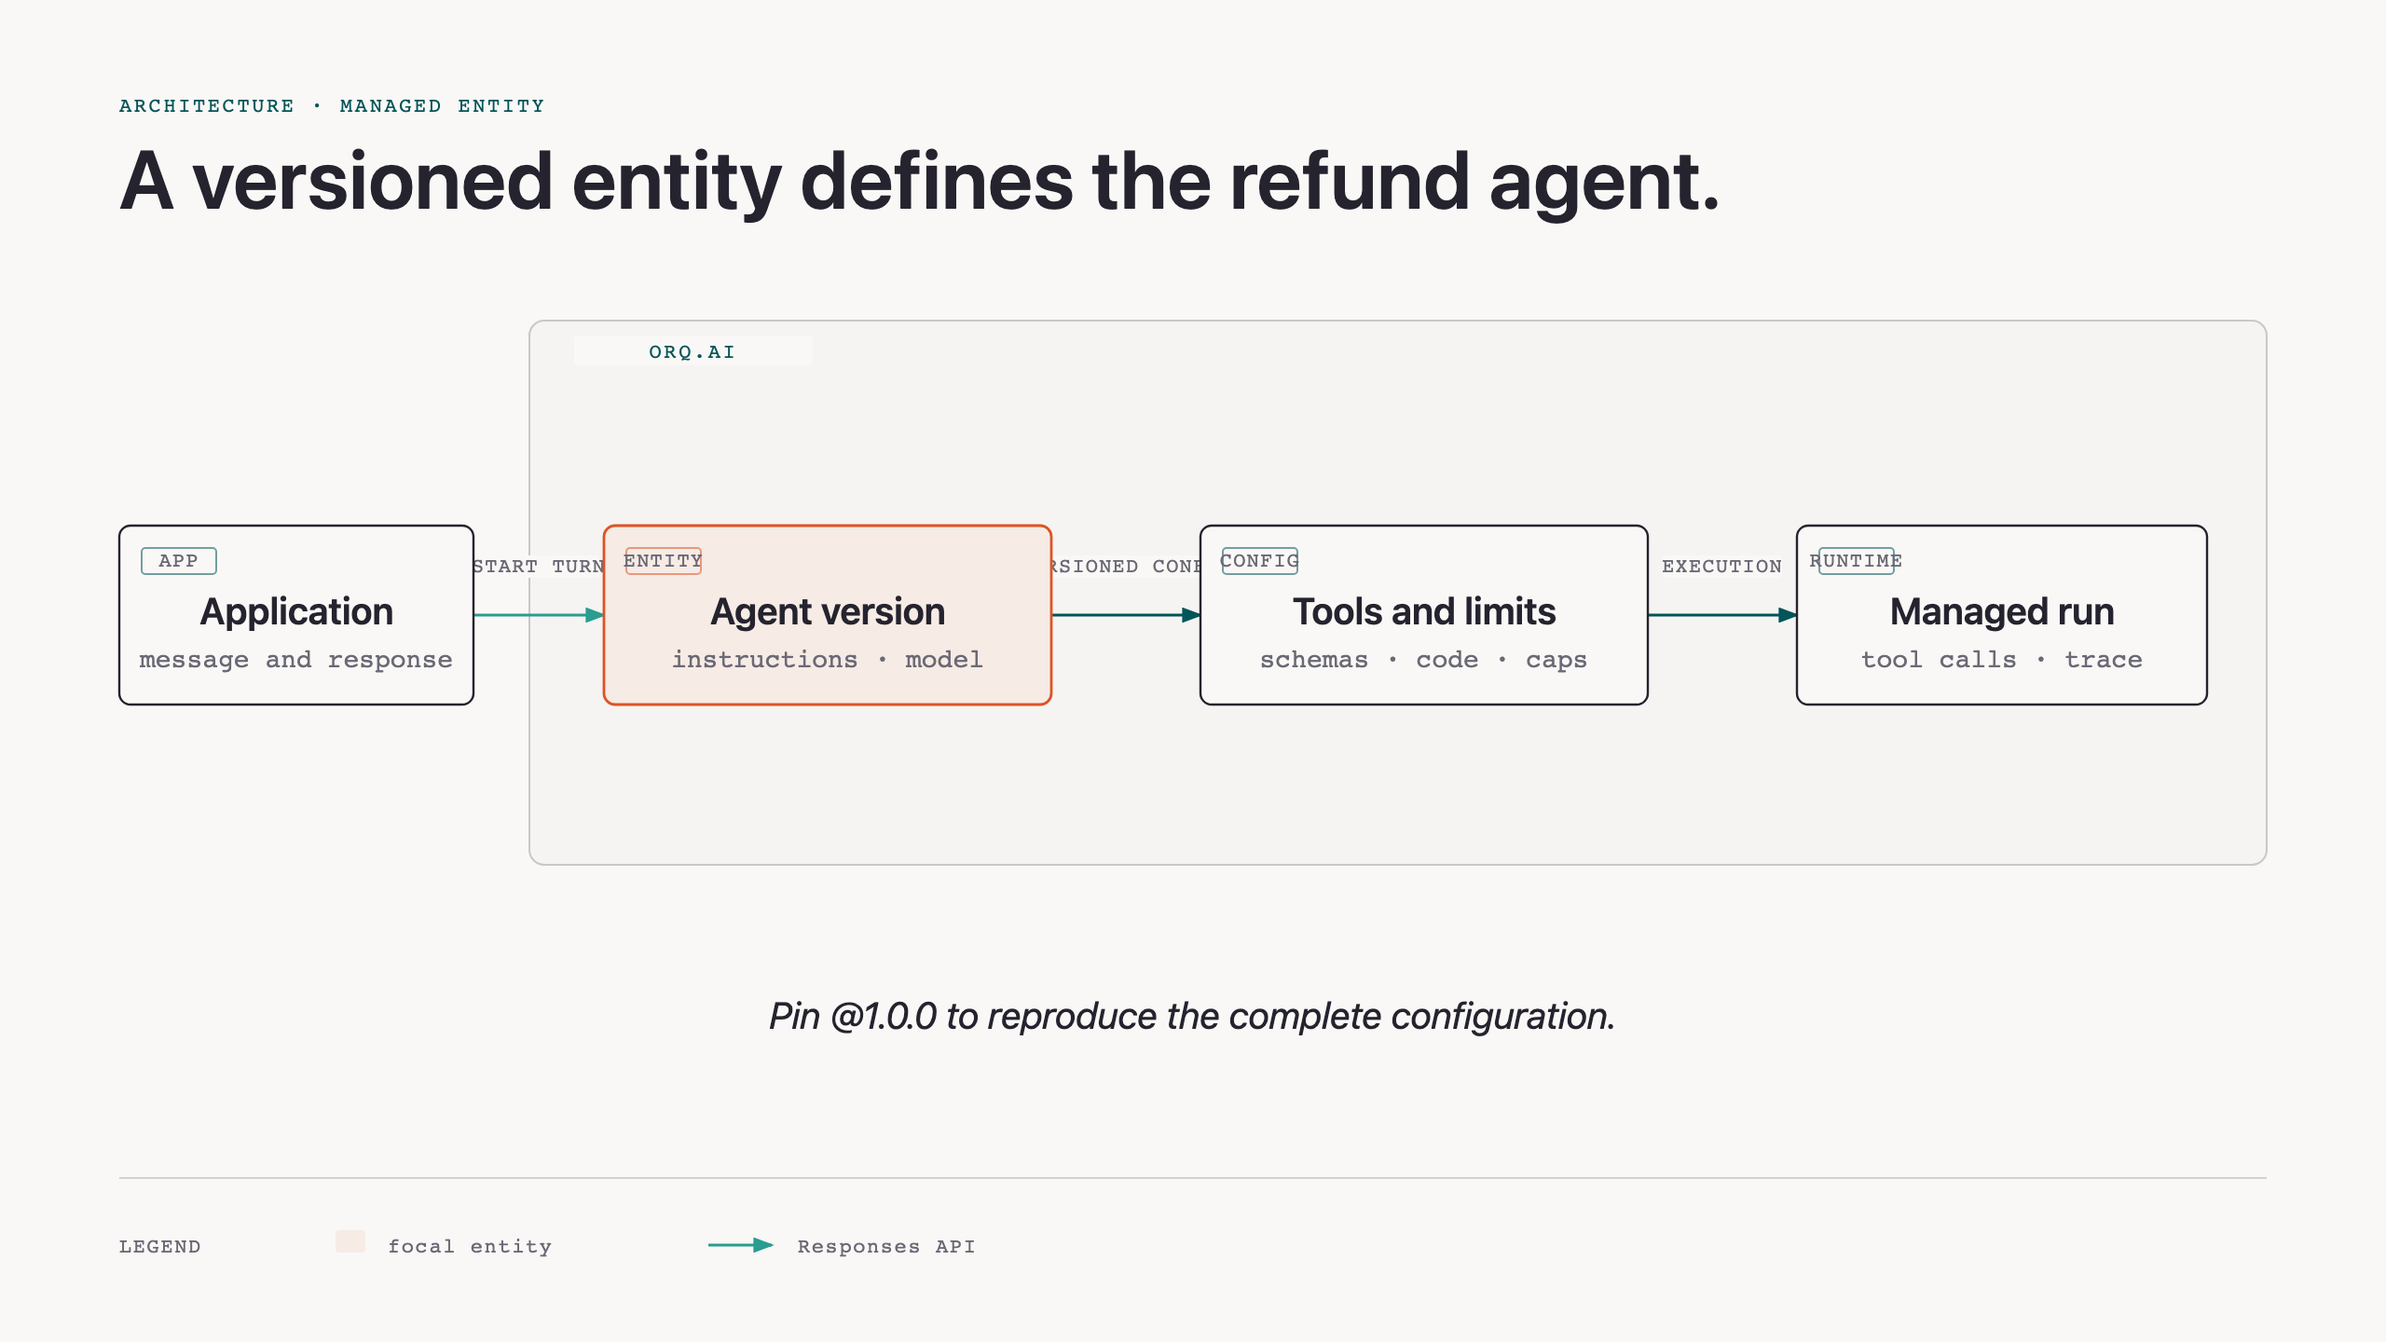
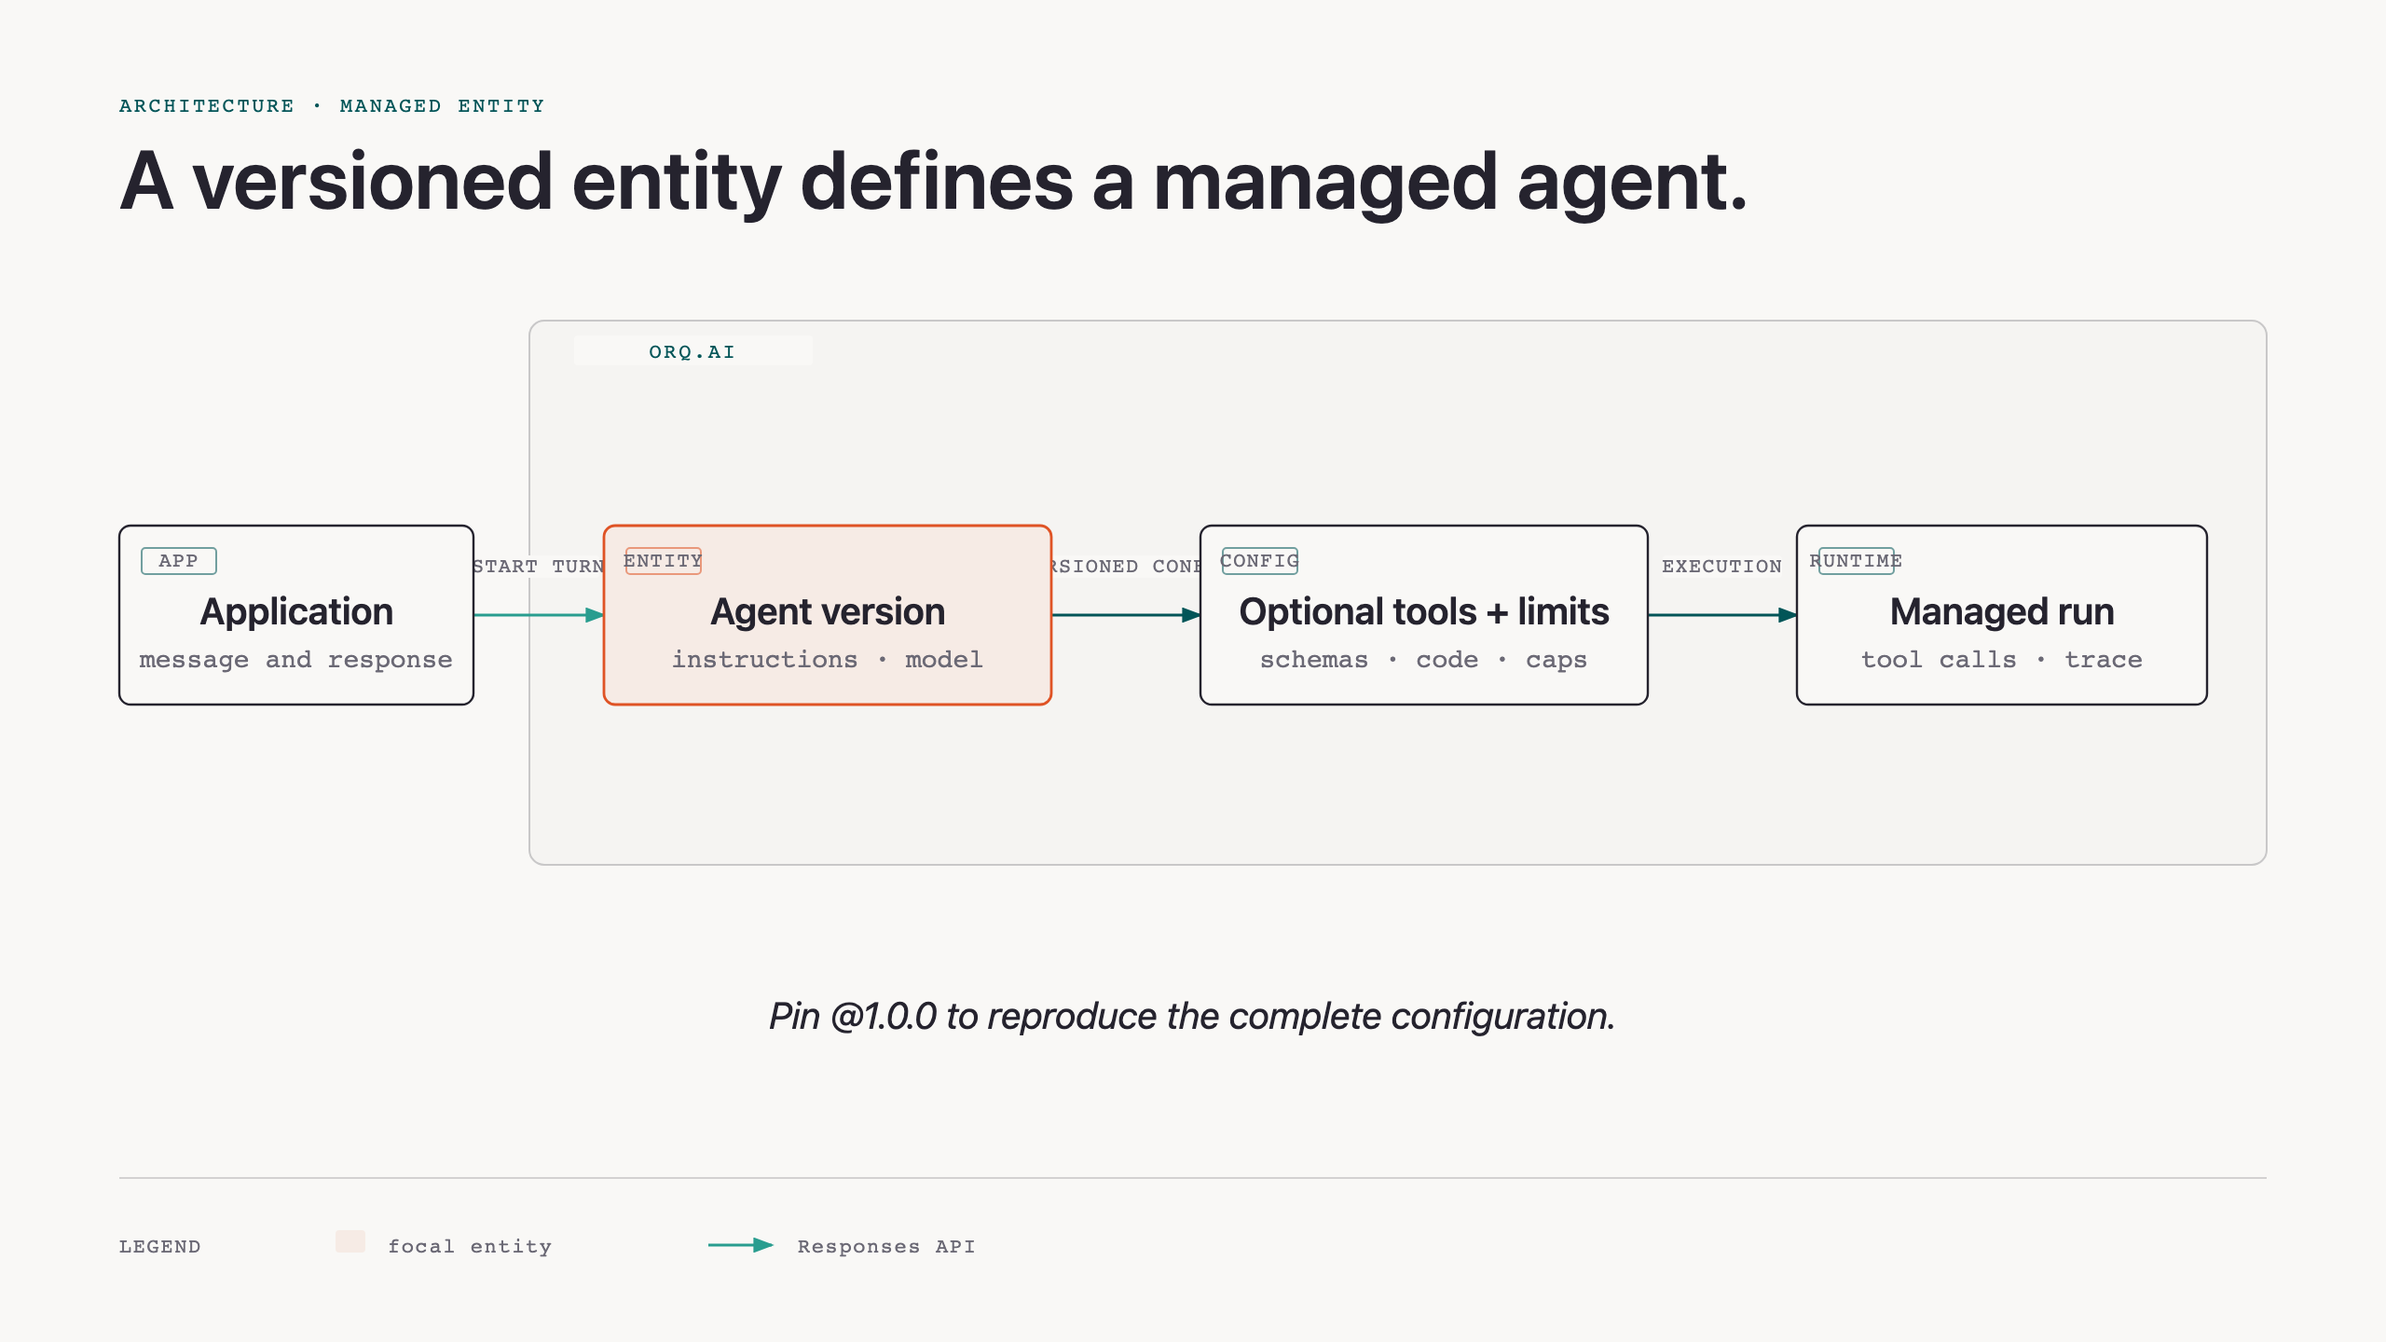
Use hello agent in concepts

Changed region(s): [[0.4375, 0.0938, 0.75, 0.1875], [0.5, 0.4375, 0.6875, 0.4688]]

diff --git a/modules/02-refund-agent/assets/managed-agent-loop.html b/modules/02-refund-agent/assets/managed-agent-loop.html
@@ -1,1 +1,1 @@
-<!doctype html><html lang="en"><head><meta charset="utf-8"><title>Managed agent entity</title><style>body{margin:0;background:#f9f8f6}.diagram-container{width:100%;max-width:100%;min-width:0;overflow-x:auto}svg{display:block;width:100%;min-width:1280px;background:#f9f8f6}.title{font:600 44px Avio,system-ui,sans-serif;fill:#25232e}.eyebrow{font:500 11px Mono,monospace;letter-spacing:1.3px;fill:#025558}.name{font:600 20px Avio,system-ui,sans-serif;fill:#25232e}.sub{font:14px Mono,monospace;fill:#6b6975}.tag{font:500 11px Mono,monospace;letter-spacing:.6px;fill:#6b6975}.legend{font:500 11px Mono,monospace;letter-spacing:.8px;fill:#6b6975}.callout{font:italic 20px Avio,system-ui,sans-serif;fill:#25232e}.node{fill:#f9f8f6;stroke:#25232e;stroke-width:1.2}.focal{fill:rgba(223,83,37,.08);stroke:#df5325;stroke-width:1.4}.zone{fill:rgba(37,35,46,.02);stroke:rgba(37,35,46,.22);stroke-width:1}.arrow{fill:none;stroke:#025558;stroke-width:1.4;marker-end:url(#arrow)}.accent-arrow{fill:none;stroke:#df5325;stroke-width:1.6;marker-end:url(#arrow-accent)}.link-arrow{fill:none;stroke:#299d8f;stroke-width:1.4;marker-end:url(#arrow-link)}.return{fill:none;stroke:#6b6975;stroke-width:1.1;stroke-dasharray:5,4;marker-end:url(#arrow)}@media print{.diagram-container{overflow-x:visible}svg{min-width:0}}</style></head><body><div class="diagram-container"><svg viewBox="0 0 1280 720" role="img" aria-labelledby="managed-agent-loop-title managed-agent-loop-desc"><title id="managed-agent-loop-title">Managed agent entity</title><desc id="managed-agent-loop-desc">The versioned agent entity contains instructions, model configuration, tool schemas, code tools, limits, and versions in orq.</desc><defs><marker id="arrow" markerWidth="8" markerHeight="6" refX="7" refY="3" orient="auto"><polygon points="0 0,8 3,0 6" fill="#025558"/></marker><marker id="arrow-accent" markerWidth="8" markerHeight="6" refX="7" refY="3" orient="auto"><polygon points="0 0,8 3,0 6" fill="#df5325"/></marker><marker id="arrow-link" markerWidth="8" markerHeight="6" refX="7" refY="3" orient="auto"><polygon points="0 0,8 3,0 6" fill="#299d8f"/></marker></defs><rect width="1280" height="720" fill="#f9f8f6"/><text x="64" y="60" class="eyebrow">ARCHITECTURE · MANAGED ENTITY</text><text x="64" y="112" class="title">A versioned entity defines the refund agent.</text><rect x="284" y="172" width="932" height="292" rx="8" class="zone"/><rect x="308" y="180" width="128" height="16" rx="2" fill="#f9f8f6"/><text x="372" y="192" text-anchor="middle" class="eyebrow">ORQ.AI</text><path d="M254 330 H324" class="link-arrow"/><path d="M564 330 H644" class="arrow"/><path d="M884 330 H964" class="arrow"/><rect x="256.5" y="298" width="65.0" height="12" rx="2" fill="#f9f8f6"/><text x="289" y="307" text-anchor="middle" class="tag">START TURN</text><rect x="552.0" y="298" width="104.0" height="12" rx="2" fill="#f9f8f6"/><text x="604" y="307" text-anchor="middle" class="tag">VERSIONED CONFIG</text><rect x="892.0" y="298" width="64" height="12" rx="2" fill="#f9f8f6"/><text x="924" y="307" text-anchor="middle" class="tag">EXECUTION</text><rect x="64" y="282" width="190" height="96" rx="6" fill="#f9f8f6"/><rect x="64" y="282" width="190" height="96" rx="6" class="node"/><rect x="76" y="294" width="40" height="14" rx="2" fill="none" stroke="#025558" stroke-opacity=".55"/><text x="96" y="304" text-anchor="middle" class="tag">APP</text><text x="159.0" y="335" text-anchor="middle" class="name">Application</text><text x="159.0" y="358" text-anchor="middle" class="sub">message and response</text><rect x="324" y="282" width="240" height="96" rx="6" fill="#f9f8f6"/><rect x="324" y="282" width="240" height="96" rx="6" class="focal"/><rect x="336" y="294" width="40" height="14" rx="2" fill="none" stroke="#df5325" stroke-opacity=".55"/><text x="356" y="304" text-anchor="middle" class="tag">ENTITY</text><text x="444.0" y="335" text-anchor="middle" class="name">Agent version</text><text x="444.0" y="358" text-anchor="middle" class="sub">instructions · model</text><rect x="644" y="282" width="240" height="96" rx="6" fill="#f9f8f6"/><rect x="644" y="282" width="240" height="96" rx="6" class="node"/><rect x="656" y="294" width="40" height="14" rx="2" fill="none" stroke="#025558" stroke-opacity=".55"/><text x="676" y="304" text-anchor="middle" class="tag">CONFIG</text><text x="764.0" y="335" text-anchor="middle" class="name">Tools and limits</text><text x="764.0" y="358" text-anchor="middle" class="sub">schemas · code · caps</text><rect x="964" y="282" width="220" height="96" rx="6" fill="#f9f8f6"/><rect x="964" y="282" width="220" height="96" rx="6" class="node"/><rect x="976" y="294" width="40" height="14" rx="2" fill="none" stroke="#025558" stroke-opacity=".55"/><text x="996" y="304" text-anchor="middle" class="tag">RUNTIME</text><text x="1074.0" y="335" text-anchor="middle" class="name">Managed run</text><text x="1074.0" y="358" text-anchor="middle" class="sub">tool calls · trace</text><text x="640" y="552" text-anchor="middle" class="callout">Pin @1.0.0 to reproduce the complete configuration.</text><line x1="64" y1="632" x2="1216" y2="632" stroke="rgba(37,35,46,.18)"/><text x="64" y="672" class="legend">LEGEND</text><rect x="180" y="660" width="16" height="12" rx="2" fill="rgba(223,83,37,.08)"/><text x="208" y="672" class="legend">focal entity</text><line x1="380" y1="668" x2="414" y2="668" class="link-arrow"/><text x="428" y="672" class="legend">Responses API</text></svg></div></body></html>
+<!doctype html><html lang="en"><head><meta charset="utf-8"><title>Managed agent entity</title><style>body{margin:0;background:#f9f8f6}.diagram-container{width:100%;max-width:100%;min-width:0;overflow-x:auto}svg{display:block;width:100%;min-width:1280px;background:#f9f8f6}.title{font:600 44px Avio,system-ui,sans-serif;fill:#25232e}.eyebrow{font:500 11px Mono,monospace;letter-spacing:1.3px;fill:#025558}.name{font:600 20px Avio,system-ui,sans-serif;fill:#25232e}.sub{font:14px Mono,monospace;fill:#6b6975}.tag{font:500 11px Mono,monospace;letter-spacing:.6px;fill:#6b6975}.legend{font:500 11px Mono,monospace;letter-spacing:.8px;fill:#6b6975}.callout{font:italic 20px Avio,system-ui,sans-serif;fill:#25232e}.node{fill:#f9f8f6;stroke:#25232e;stroke-width:1.2}.focal{fill:rgba(223,83,37,.08);stroke:#df5325;stroke-width:1.4}.zone{fill:rgba(37,35,46,.02);stroke:rgba(37,35,46,.22);stroke-width:1}.arrow{fill:none;stroke:#025558;stroke-width:1.4;marker-end:url(#arrow)}.accent-arrow{fill:none;stroke:#df5325;stroke-width:1.6;marker-end:url(#arrow-accent)}.link-arrow{fill:none;stroke:#299d8f;stroke-width:1.4;marker-end:url(#arrow-link)}.return{fill:none;stroke:#6b6975;stroke-width:1.1;stroke-dasharray:5,4;marker-end:url(#arrow)}@media print{.diagram-container{overflow-x:visible}svg{min-width:0}}</style></head><body><div class="diagram-container"><svg viewBox="0 0 1280 720" role="img" aria-labelledby="managed-agent-loop-title managed-agent-loop-desc"><title id="managed-agent-loop-title">Managed agent entity</title><desc id="managed-agent-loop-desc">A versioned agent entity contains instructions, model configuration, optional tools, limits, and versions in orq.ai.</desc><defs><marker id="arrow" markerWidth="8" markerHeight="6" refX="7" refY="3" orient="auto"><polygon points="0 0,8 3,0 6" fill="#025558"/></marker><marker id="arrow-accent" markerWidth="8" markerHeight="6" refX="7" refY="3" orient="auto"><polygon points="0 0,8 3,0 6" fill="#df5325"/></marker><marker id="arrow-link" markerWidth="8" markerHeight="6" refX="7" refY="3" orient="auto"><polygon points="0 0,8 3,0 6" fill="#299d8f"/></marker></defs><rect width="1280" height="720" fill="#f9f8f6"/><text x="64" y="60" class="eyebrow">ARCHITECTURE · MANAGED ENTITY</text><text x="64" y="112" class="title">A versioned entity defines a managed agent.</text><rect x="284" y="172" width="932" height="292" rx="8" class="zone"/><rect x="308" y="180" width="128" height="16" rx="2" fill="#f9f8f6"/><text x="372" y="192" text-anchor="middle" class="eyebrow">ORQ.AI</text><path d="M254 330 H324" class="link-arrow"/><path d="M564 330 H644" class="arrow"/><path d="M884 330 H964" class="arrow"/><rect x="256.5" y="298" width="65.0" height="12" rx="2" fill="#f9f8f6"/><text x="289" y="307" text-anchor="middle" class="tag">START TURN</text><rect x="552.0" y="298" width="104.0" height="12" rx="2" fill="#f9f8f6"/><text x="604" y="307" text-anchor="middle" class="tag">VERSIONED CONFIG</text><rect x="892.0" y="298" width="64" height="12" rx="2" fill="#f9f8f6"/><text x="924" y="307" text-anchor="middle" class="tag">EXECUTION</text><rect x="64" y="282" width="190" height="96" rx="6" fill="#f9f8f6"/><rect x="64" y="282" width="190" height="96" rx="6" class="node"/><rect x="76" y="294" width="40" height="14" rx="2" fill="none" stroke="#025558" stroke-opacity=".55"/><text x="96" y="304" text-anchor="middle" class="tag">APP</text><text x="159.0" y="335" text-anchor="middle" class="name">Application</text><text x="159.0" y="358" text-anchor="middle" class="sub">message and response</text><rect x="324" y="282" width="240" height="96" rx="6" fill="#f9f8f6"/><rect x="324" y="282" width="240" height="96" rx="6" class="focal"/><rect x="336" y="294" width="40" height="14" rx="2" fill="none" stroke="#df5325" stroke-opacity=".55"/><text x="356" y="304" text-anchor="middle" class="tag">ENTITY</text><text x="444.0" y="335" text-anchor="middle" class="name">Agent version</text><text x="444.0" y="358" text-anchor="middle" class="sub">instructions · model</text><rect x="644" y="282" width="240" height="96" rx="6" fill="#f9f8f6"/><rect x="644" y="282" width="240" height="96" rx="6" class="node"/><rect x="656" y="294" width="40" height="14" rx="2" fill="none" stroke="#025558" stroke-opacity=".55"/><text x="676" y="304" text-anchor="middle" class="tag">CONFIG</text><text x="764.0" y="335" text-anchor="middle" class="name">Optional tools + limits</text><text x="764.0" y="358" text-anchor="middle" class="sub">schemas · code · caps</text><rect x="964" y="282" width="220" height="96" rx="6" fill="#f9f8f6"/><rect x="964" y="282" width="220" height="96" rx="6" class="node"/><rect x="976" y="294" width="40" height="14" rx="2" fill="none" stroke="#025558" stroke-opacity=".55"/><text x="996" y="304" text-anchor="middle" class="tag">RUNTIME</text><text x="1074.0" y="335" text-anchor="middle" class="name">Managed run</text><text x="1074.0" y="358" text-anchor="middle" class="sub">tool calls · trace</text><text x="640" y="552" text-anchor="middle" class="callout">Pin @1.0.0 to reproduce the complete configuration.</text><line x1="64" y1="632" x2="1216" y2="632" stroke="rgba(37,35,46,.18)"/><text x="64" y="672" class="legend">LEGEND</text><rect x="180" y="660" width="16" height="12" rx="2" fill="rgba(223,83,37,.08)"/><text x="208" y="672" class="legend">focal entity</text><line x1="380" y1="668" x2="414" y2="668" class="link-arrow"/><text x="428" y="672" class="legend">Responses API</text></svg></div></body></html>

diff --git a/modules/02-refund-agent/concepts.md b/modules/02-refund-agent/concepts.md
@@ -58,53 +58,52 @@ The refund agent stops when it answers, after `max_iterations: 8`, or after `max
 
 ## One turn on the wire
 
-A turn is one `responses.create(model="agent/<key>@1.0.0")` call. Its output items show the work: a `function_call` with a name and arguments, an `orq:<tool>` item with the result and the same `call_id`, then a `message` and `telemetry.trace_id`.
-
-`client.parse_turn` pairs those items; the chat UI renders the paired calls as tool chips. For example, a refund request can lead to `lookup_order`, `get_policy`, and `issue_refund` before the final message.
+A hello turn is one `responses.create(model="agent/hello-agent")` call. Its response contains a `message` item and `telemetry.trace_id`.
 
 ```python {.code-frame}
-# app/refund_agent/client.py
-from app.refund_agent.client import make_orq
-from app.refund_agent.config import settings
+import os
 
-orq = make_orq()
+from orq_ai_sdk import Orq
+
+orq = Orq(api_key=os.environ["ORQ_API_KEY"])
 response = orq.responses.create(
-    model=f"agent/{settings.agent_key}@1.0.0",
-    input="Please refund ord_a2.",
+    model="agent/hello-agent",
+    input="Hello",
 )
 
-# A function_call requests work; orq:<tool> supplies its result.
-if kind == "function_call":
-    calls[call_id] = ToolCall(name=name, arguments=arguments)
-elif kind.startswith("orq:"):
-    calls[call_id].result = result
+message = next(item for item in response.output if item.type == "message")
+print(message.content)
+print(response.telemetry.trace_id)
 ```
+
+When an agent has tools, the same response shape gains a `function_call` item with a name and arguments. orq.ai executes the hosted tool and adds an `orq:<tool>` item with the matching `call_id` and result before the final message. The refund solution uses that extended shape later.
 
 ![An application sends a message to a managed agent; the model requests a function call, orq.ai executes the code tool, returns an orq.ai tool-result item to the model, and returns a message with a trace ID.](assets/agent-turn-sequence.png)
 
 ## An entity with versions
 
-The refund agent is an orq.ai entity containing instructions, a model, tool schemas, generated code tools, limits, and versions. Pinning `@1.0.0` makes a call reproducible. Publishing changed instructions creates a new major version; there is no separate deployment to manage.
+A managed agent is an orq.ai entity containing instructions, a model, optional tools, limits, and versions. Pinning `@1.0.0` makes a call reproducible. Publishing a change creates a new version; there is no separate deployment to manage.
 
 The important SDK distinction is **configuration versus invocation**. `orq.agents.create()` configures a durable entity. `orq.responses.create()` runs one turn against it. A workshop application should not rebuild an agent on every request.
 
 ```python {.code-frame}
-from app.refund_agent.client import make_orq
-from app.refund_agent.config import settings
+# Configure once: an agent with no tools is still a managed agent.
+orq.agents.create(
+    key="hello-agent",
+    description="Greets a customer in one sentence.",
+    instructions="Greet the customer in one sentence.",
+    path="Example/Agents",
+    model="provider/model",
+)
 
-orq = make_orq()
-
-# Configure once: app/refund_agent/entities.py
-orq.agents.create(key=settings.agent_key, instructions=instructions, ...)
-
-# Invoke many times: app/refund_agent/client.py
-turn = orq.responses.create(
-    model=f"agent/{settings.agent_key}@1.0.0",
-    input=customer_message,
+# Invoke many times, optionally pinning one version.
+response = orq.responses.create(
+    model="agent/hello-agent@1.0.0",
+    input="Hello",
 )
 ```
 
-![The managed refund-agent entity in orq.ai contains its instructions, model, tool schemas, code tools, limits, and version history; the application only starts a conversation and receives its result.](assets/managed-agent-loop.png)
+![A managed agent entity in orq.ai contains its instructions, model, optional tools, limits, and version history; an application starts a conversation and receives its result.](assets/managed-agent-loop.png)
 
 ## Where the rules live
 
